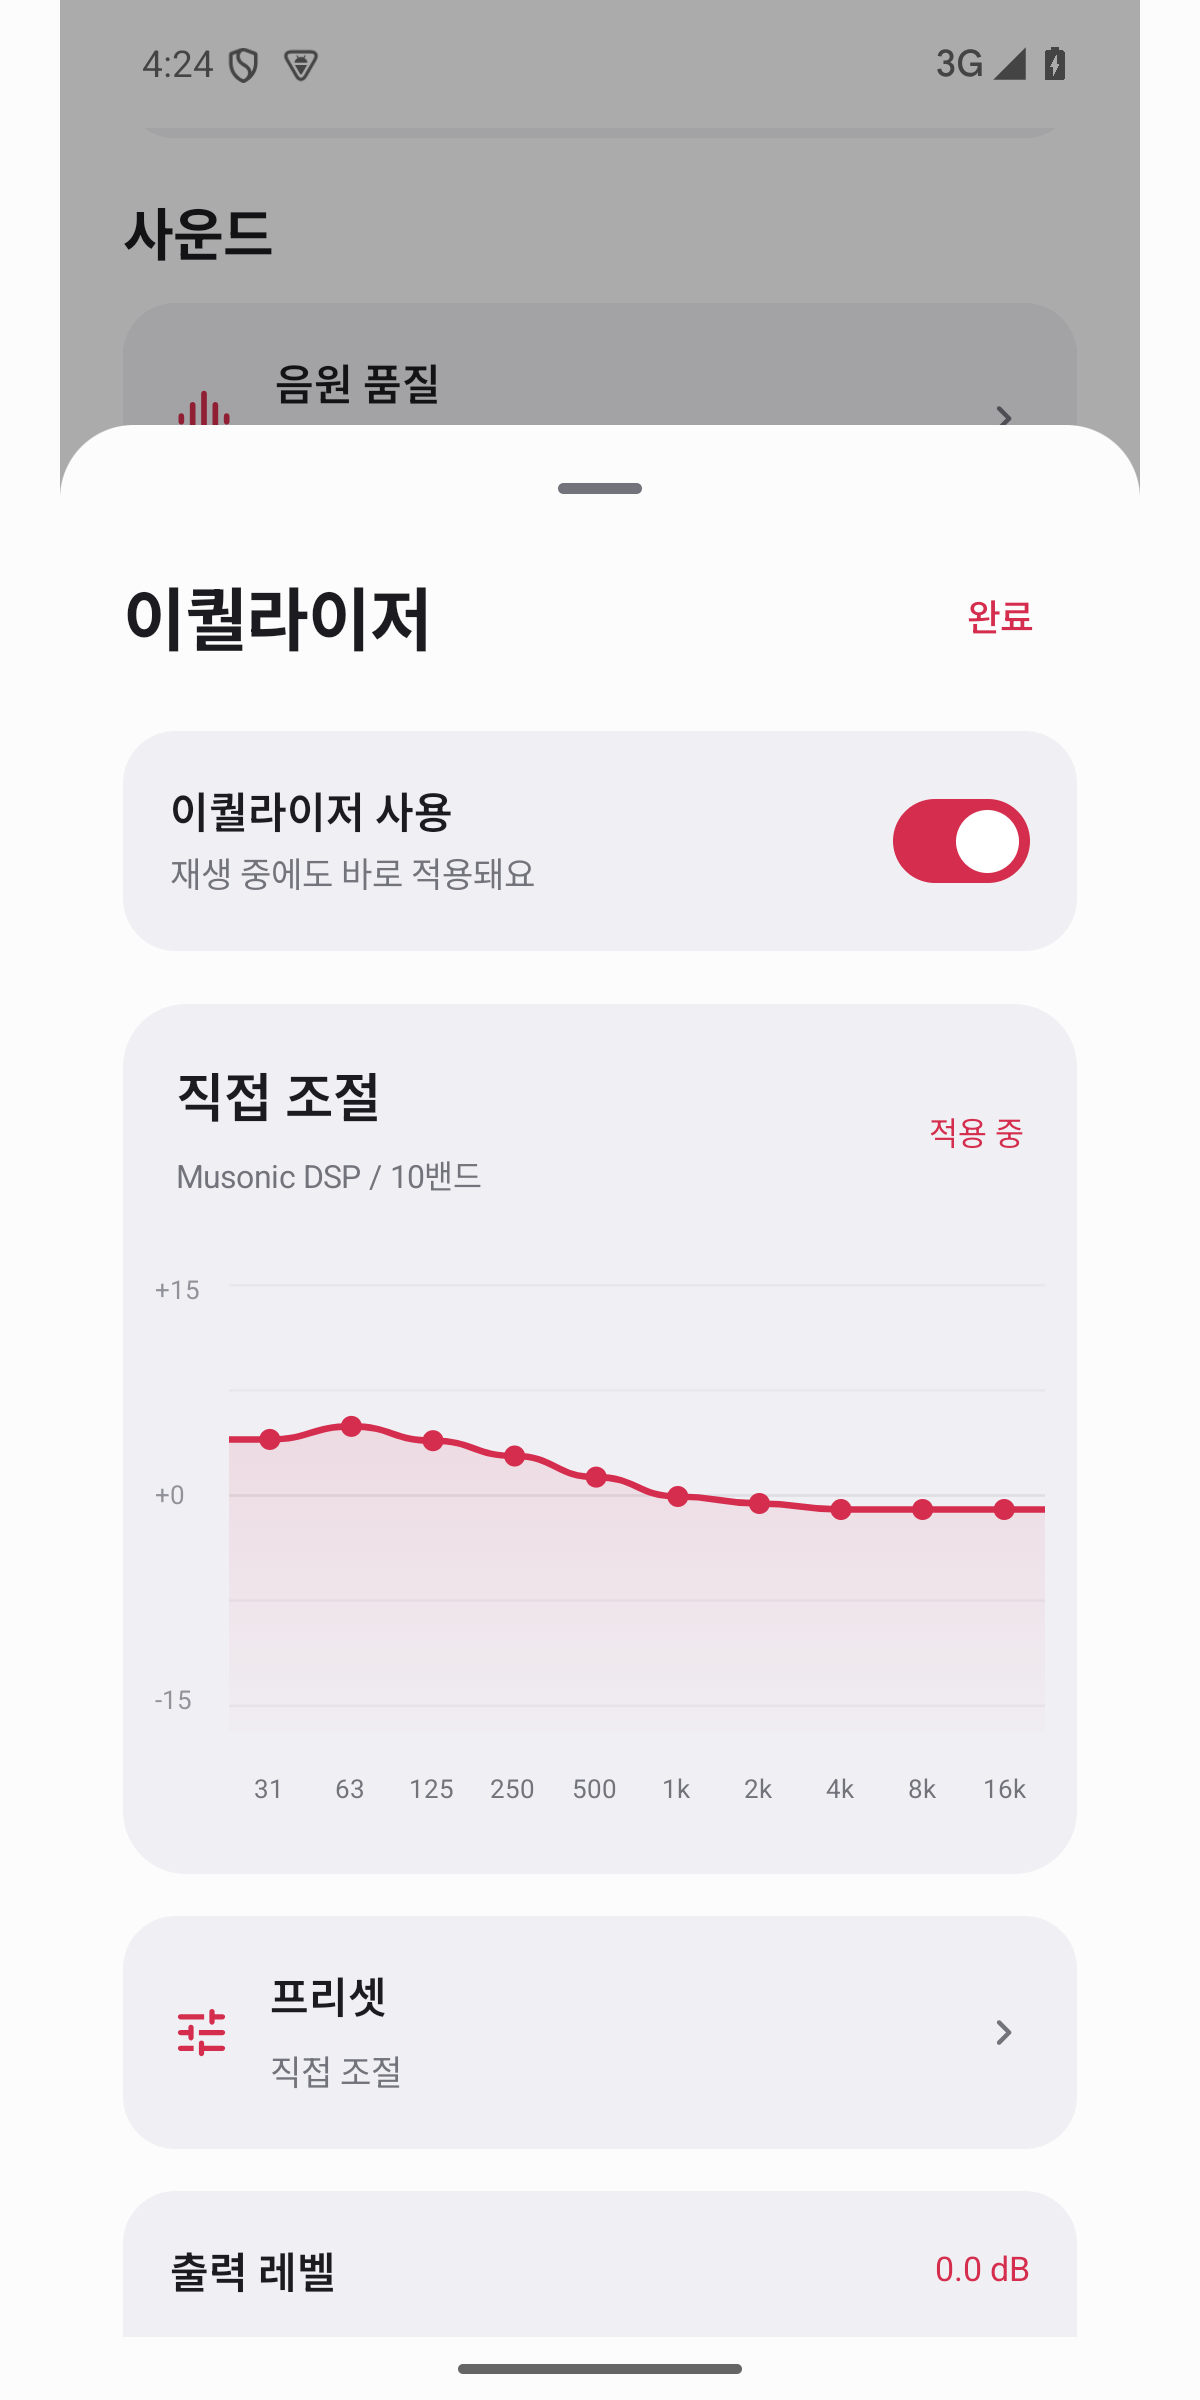
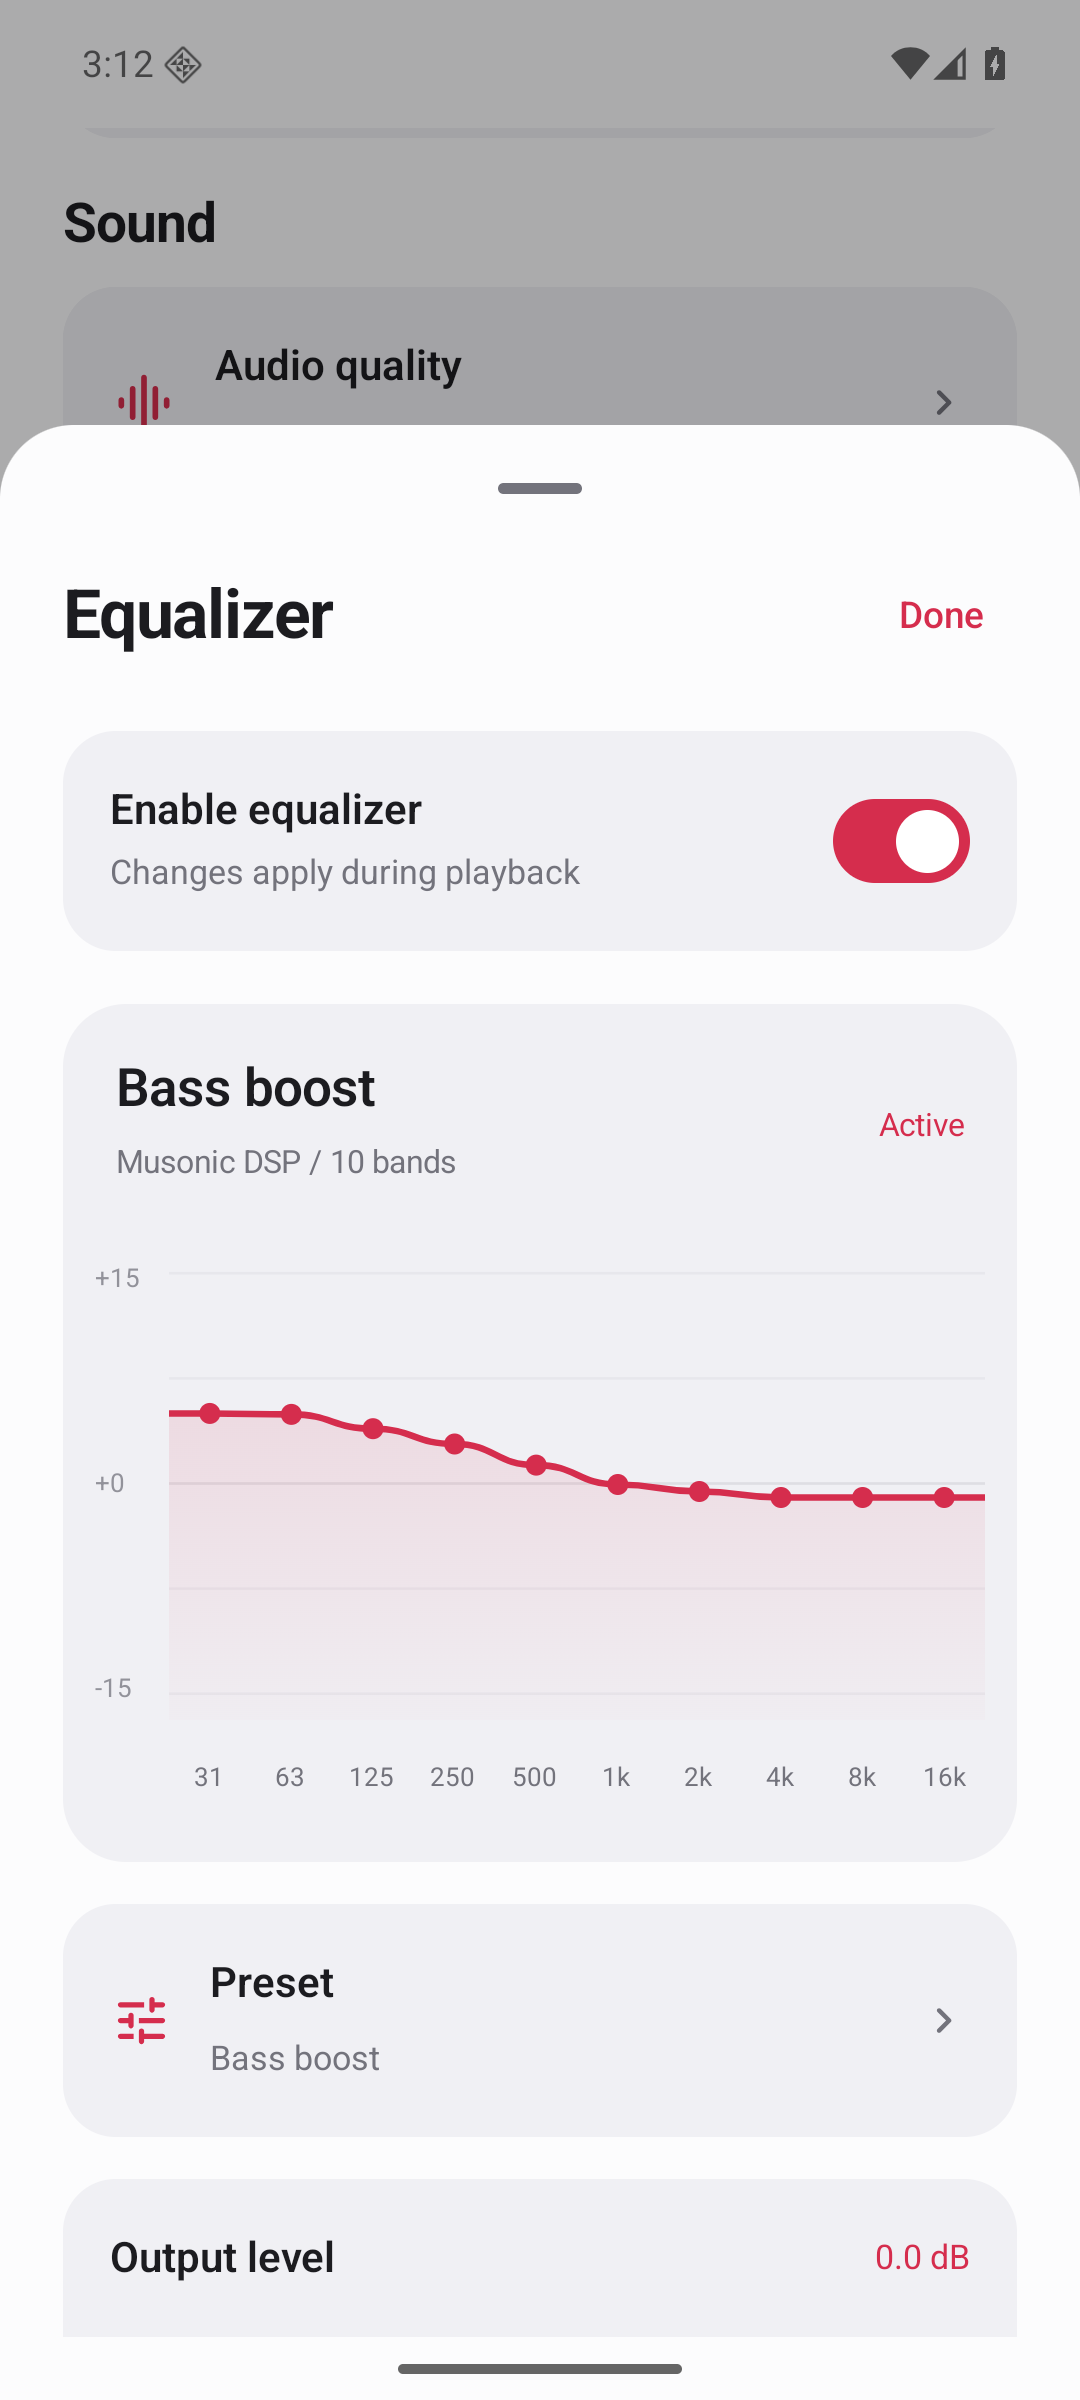
Add Docker server setup and English listening screenshots [skip ci]

diff --git a/docs/SERVER-SETUP.md b/docs/SERVER-SETUP.md
@@ -1,0 +1,78 @@
+# Connect your music server
+
+Musonic is the Android player. Navidrome is a separate, open-source server that indexes your music folder and streams it to the app. You can run Navidrome in Docker on a PC, NAS or home server. The music stays on your server; no Musonic cloud account is needed.
+
+Already running a Subsonic or OpenSubsonic server? Skip Docker and enter its URL, username and password in Musonic. A Navidrome account works with the default password/token authentication mode. Other server implementations may expose different features.
+
+## Start Navidrome with Docker
+
+Install Docker with the Compose plugin (included in Docker Desktop). The example pins Navidrome **0.64.2**, and mounts your music read-only.
+
+```sh
+git clone https://github.com/ljaehwan/Musonic.git
+cd Musonic/examples/navidrome
+cp .env.example .env
+mkdir -p data
+```
+
+On Windows PowerShell, use `Copy-Item .env.example .env` and `New-Item -ItemType Directory -Force data` for the last two commands. Docker Desktop must be running with Linux containers.
+
+Edit `.env`:
+
+| Setting | What to enter |
+| --- | --- |
+| `MUSIC_PATH` | Your existing music folder, using an absolute path. On Docker Desktop, a path such as `C:/Users/you/Music` works. |
+| `DATA_PATH` | Keep `./data`, or use a dedicated writable folder. |
+| `NAVIDROME_UID`, `NAVIDROME_GID` | On Linux, run `id -u` and `id -g`. These IDs must own the data folder and be able to read the music folder. |
+| `BIND_ADDRESS` | Keep `127.0.0.1` while creating the first account. |
+| `HTTP_PORT` | Keep `4533`, or choose another free port. |
+
+Quote paths that contain spaces. The example refuses to create a missing music folder, which helps catch a mistyped path. It does not change ownership or permissions on your music collection.
+
+```sh
+docker compose up -d
+docker compose logs --tail=30 navidrome
+```
+
+Open **http://localhost:4533** on the Docker host. Create the initial admin account and wait for albums to appear. For everyday listening, you can create a separate non-admin user in Navidrome. On a headless NAS, use an SSH tunnel for initial setup or configure a trusted LAN binding before opening the page.
+
+The container must be able to write to `DATA_PATH`. If you get a permission error, correct the configured UID/GID or the ownership of this dedicated data folder. Avoid changing permissions on the entire music collection just to fix the data directory.
+
+## Connect Musonic on your phone
+
+1. In `.env`, set `BIND_ADDRESS` to your server's LAN IP. On a trusted home network, `0.0.0.0` listens on all host interfaces. Run `docker compose up -d` again.
+2. Connect the phone to the same Wi-Fi. Open `http://YOUR_SERVER_LAN_IP:4533` in the phone's browser first. Use your chosen port if you changed it.
+3. Install the [Musonic APK](https://github.com/ljaehwan/Musonic-releases/releases/latest).
+4. Enter that same URL and your Navidrome username/password. For a local HTTP server, open **Advanced settings** and enable the HTTP option before connecting.
+5. Open an album and play a song.
+
+`localhost` on the phone refers to the phone, not the computer running Docker. `navidrome` is a Docker service name, not a URL your phone can normally resolve. Use the host's LAN IP or a working HTTPS domain.
+
+The GitHub APK supports HTTP only after opt-in. The Play build requires HTTPS.
+
+## Listen away from home
+
+Use an HTTPS reverse proxy with a valid certificate and connect Musonic to a URL such as `https://music.example.com`. Alternatively, use your own VPN to reach the LAN server. Keep the raw HTTP port off the public internet. If a proxy adds a browser-only login page, Musonic's API requests cannot complete that login; the server endpoint must support the app's normal authentication.
+
+## Everyday commands
+
+```sh
+docker compose ps
+docker compose logs --tail=50 navidrome
+docker compose stop
+docker compose up -d
+```
+
+Back up the data directory and your music separately. To upgrade, back up first, select a newer supported image version in `compose.yaml`, then run `docker compose pull && docker compose up -d`. Read the server release notes before changing versions; do not downgrade an already migrated database without a suitable backup.
+
+## If something does not work
+
+| Symptom | Check |
+| --- | --- |
+| Phone cannot open the server page | Same Wi-Fi/VPN, host address, port binding and firewall. |
+| Login fails | Use the Navidrome account, not a GitHub account. Avoid adding `/app` or `/rest` to the base URL. |
+| Library is empty | Music path, readable file permissions and scan logs. |
+| HTTPS certificate error | Certificate validity, domain name and the phone's clock. |
+| Quality setting has no effect | Server transcoding availability; replay the track after changing the quality. |
+
+Reference: [Navidrome Docker installation](https://www.navidrome.org/docs/installation/docker/), [first-run setup](https://www.navidrome.org/docs/getting-started/), and [Navidrome releases](https://github.com/navidrome/navidrome/releases).

diff --git a/docs/SERVER-SETUP.ko.md b/docs/SERVER-SETUP.ko.md
@@ -1,0 +1,43 @@
+# Docker로 음악 서버 연결하기
+
+Musonic은 Android 플레이어이고, Navidrome은 음악 폴더를 읽어 앱으로 스트리밍하는 별도의 오픈소스 서버입니다. PC·NAS·홈 서버에서 Docker로 실행할 수 있습니다. 이미 Subsonic/OpenSubsonic 서버가 있다면 설치 과정 없이 앱에 기존 서버 주소와 계정을 입력하면 됩니다.
+
+## 1. 서버 준비
+
+Docker와 Compose 플러그인이 필요합니다. Docker Desktop에는 Compose가 포함되어 있습니다.
+
+```sh
+git clone https://github.com/ljaehwan/Musonic.git
+cd Musonic/examples/navidrome
+cp .env.example .env
+mkdir -p data
+```
+
+Windows PowerShell에서는 마지막 두 줄 대신 `Copy-Item .env.example .env`와 `New-Item -ItemType Directory -Force data`를 사용하세요. Docker Desktop은 Linux 컨테이너 모드로 실행합니다.
+
+`.env`의 `MUSIC_PATH`를 실제 음악 폴더의 절대 경로로 바꾸세요. Windows에서는 `C:/Users/you/Music` 같은 경로를 사용할 수 있습니다. 공백이 있는 경로는 따옴표로 감싸세요. `DATA_PATH`는 별도의 쓰기 가능한 폴더이며, 기본값 `./data`에는 서버 DB와 캐시가 저장됩니다.
+
+Linux에서는 `id -u`, `id -g`로 확인한 값을 `NAVIDROME_UID`, `NAVIDROME_GID`에 입력하세요. 이 사용자에게 data 폴더의 쓰기 권한과 음악 폴더의 읽기 권한이 있어야 합니다. 예제는 음악을 읽기 전용으로 연결하며, 존재하지 않는 경로를 자동으로 만들지 않습니다.
+
+```sh
+docker compose up -d
+```
+
+Docker를 실행한 컴퓨터에서 **http://localhost:4533**을 열고 첫 관리자 계정을 만드세요. 음악 검색이 끝나면 앨범이 표시됩니다. 평소 앱에서 사용할 일반 사용자 계정은 Navidrome에서 별도로 만들 수 있습니다. 화면 없는 NAS라면 초기 설정에 SSH 터널을 쓰거나 신뢰할 수 있는 내부망 주소에 먼저 바인딩하세요.
+
+## 2. 휴대폰에서 연결
+
+1. `.env`의 `BIND_ADDRESS`를 서버의 내부 IP로 바꾸고 `docker compose up -d`를 다시 실행하세요. 신뢰할 수 있는 집 네트워크에서는 `0.0.0.0`으로 모든 호스트 인터페이스에 연결할 수도 있습니다.
+2. 같은 Wi-Fi의 휴대폰 브라우저에서 `http://서버내부IP:4533`이 열리는지 확인하세요.
+3. [Musonic APK](https://github.com/ljaehwan/Musonic-releases/releases/latest)를 설치하고 같은 주소와 Navidrome 계정을 입력하세요.
+4. HTTP 주소라면 **고급 설정**에서 HTTP 허용 옵션을 켠 뒤 연결하세요. Play 빌드는 HTTPS만 지원합니다.
+
+휴대폰에서 `localhost`는 서버가 아니라 휴대폰 자신입니다. Docker 서비스 이름인 `navidrome`도 보통 휴대폰에서는 접속 주소로 사용할 수 없습니다.
+
+## 3. 집 밖에서 듣기
+
+유효한 인증서가 있는 HTTPS 리버스 프록시를 설정해 `https://music.example.com` 같은 주소로 연결하거나, 개인 VPN으로 내부망에 접속하세요. 원본 HTTP 포트를 인터넷에 직접 공개하지 마세요. 브라우저 전용 로그인 화면을 추가하는 프록시는 앱의 API 인증을 막을 수 있습니다.
+
+문제가 생기면 `docker compose logs --tail=50 navidrome`으로 경로·권한·스캔 오류를 확인하세요. data 폴더 권한 문제를 해결하려고 음악 폴더 전체 권한을 바꿀 필요는 없습니다. 업데이트 전에는 data 폴더와 음악을 백업하고 서버 릴리즈 안내를 확인하세요.
+
+예제 버전은 **Navidrome 0.64.2**입니다. 더 자세한 설명은 [영문 연결 안내](SERVER-SETUP.md), [Navidrome Docker 공식 문서](https://www.navidrome.org/docs/installation/docker/)를 참고하세요.

diff --git a/README.md b/README.md
@@ -1,11 +1,11 @@
 <p align="center"><img src="brand/musonic-logo.png" alt="Musonic" width="300"></p>
 <p align="center">An Android player for the music on your own server.</p>
-<p align="center"><a href="https://github.com/ljaehwan/Musonic-releases/releases/latest">Download APK</a> · <a href="README.ko.md">한국어</a> · <a href="docs/BUILDING.md">Build from source</a> · <a href="https://github.com/sponsors/ljaehwan">Sponsor</a></p>
+<p align="center"><a href="https://github.com/ljaehwan/Musonic-releases/releases/latest">Download APK</a> · <a href="docs/SERVER-SETUP.md">Docker server setup</a> · <a href="README.ko.md">한국어</a> · <a href="docs/BUILDING.md">Build from source</a> · <a href="https://github.com/sponsors/ljaehwan">Sponsor</a></p>
 <p align="center"><a href="https://github.com/ljaehwan/Musonic/actions/workflows/android.yml"><img src="https://github.com/ljaehwan/Musonic/actions/workflows/android.yml/badge.svg" alt="Android build"></a> <a href="LICENSE"><img src="https://img.shields.io/badge/license-MIT-blue" alt="MIT license"></a> <img src="https://img.shields.io/badge/Android-8.0%2B-3DDC84" alt="Android 8.0 or later"> <a href="https://github.com/ljaehwan/Musonic/stargazers"><img src="https://img.shields.io/github/stars/ljaehwan/Musonic?style=flat" alt="GitHub stars"></a></p>
 
 Musonic connects to Subsonic and OpenSubsonic servers, including Navidrome. It keeps your albums, recent listens and sound controls close at hand. Written in Kotlin with Jetpack Compose. Free to use, with no ads or analytics SDKs.
 
-<p align="center"><img src="docs/images/library.jpg" width="23%" alt="Album library"> <img src="docs/images/player.jpg" width="23%" alt="Now playing"> <img src="docs/images/equalizer.png" width="23%" alt="Ten-band equalizer"> <img src="docs/images/presets.png" width="23%" alt="Sound presets"></p>
+<p align="center"><img src="docs/images/library.png" width="23%" alt="Album library"> <img src="docs/images/player.png" width="23%" alt="Now playing"> <img src="docs/images/equalizer.png" width="23%" alt="Ten-band equalizer"> <img src="docs/images/presets.png" width="23%" alt="Sound presets"></p>
 
 ## What it does
 
@@ -25,6 +25,14 @@ Download the APK from [Musonic releases](https://github.com/ljaehwan/Musonic-rel
 Use an HTTPS address such as `https://music.example.com`. The direct APK also allows HTTP after an explicit opt-in. Server features and transcoding availability vary.
 
 The GitHub APK checks for updates in the release repository and asks Android to confirm installation. Google Play registration is in progress; there is no public Play listing yet. Locally built APKs and store builds can have different signing keys, so switching distributions may require uninstalling first. Uninstalling removes local settings and history.
+
+## Need a music server?
+
+Run **Navidrome in Docker**, point it at your music folder, then connect Musonic with the server address and the account you create. A PC, NAS or home server is enough.
+
+The included [Docker Compose example](examples/navidrome) mounts music read-only and keeps the server database in a separate folder. The [setup guide](docs/SERVER-SETUP.md) walks through first-run setup, phone connection on Wi-Fi, and HTTPS access away from home. No Musonic account or subscription is needed.
+
+Already have a Subsonic/OpenSubsonic server? Use it directly; you don't need another container.
 
 ## Build
 

diff --git a/examples/navidrome/README.md b/examples/navidrome/README.md
@@ -1,0 +1,13 @@
+# Navidrome for Musonic
+
+A Docker Compose example for serving your own music to Musonic. Your music is mounted read-only; the database and cache live in a separate data directory.
+
+Follow the [English setup guide](../../docs/SERVER-SETUP.md) or [한국어 안내](../../docs/SERVER-SETUP.ko.md) before starting the container. Copy `.env.example` to `.env`, set your music path and file permissions, and create the data directory first.
+
+```sh
+docker compose up -d
+```
+
+The initial binding is **127.0.0.1:4533**, so first-run account creation is local to the Docker host. The guide explains how to enable phone access afterward.
+
+Navidrome is a separate project. See its [documentation](https://www.navidrome.org/docs/) and [license](https://github.com/navidrome/navidrome/blob/master/LICENSE).
